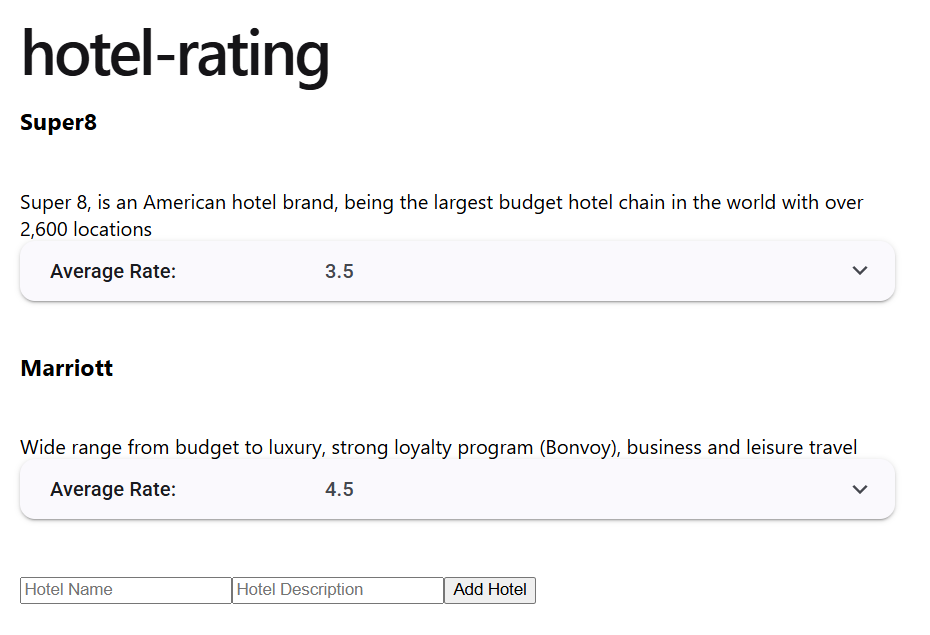
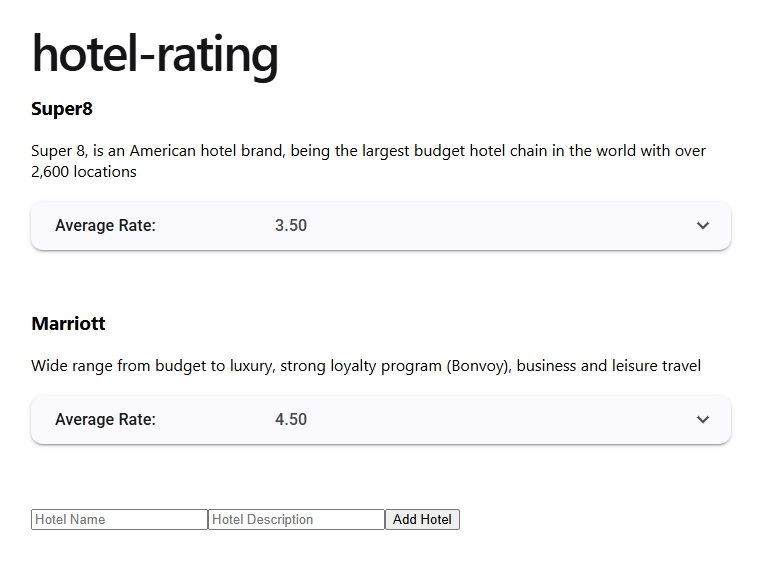
Add sub-component hotel-rate

diff --git a/src/app/hotel-info/hotel-info.ts b/src/app/hotel-info/hotel-info.ts
@@ -1,23 +1,23 @@
-import { Component , Input, OnInit } from '@angular/core';
+import { Component, Input, OnInit, Output, EventEmitter } from '@angular/core';
 import { CommonModule } from '@angular/common';
 import { MatExpansionModule } from '@angular/material/expansion';
 import { FormsModule } from '@angular/forms';
 import { MatRadioModule } from '@angular/material/radio';
-
+import { HotelRate } from '../hotel-rate/hotel-rate';
+import Swal from 'sweetalert2';
 @Component({
   selector: 'app-hotel-info',
-  imports: [CommonModule,MatExpansionModule,FormsModule,MatRadioModule],
+  imports: [CommonModule,MatExpansionModule,FormsModule,MatRadioModule,HotelRate],
   templateUrl: './hotel-info.html',
   styleUrl: './hotel-info.css'
 })
 export class HotelInfo implements OnInit{
   @Input() hotelsJsonString?: string;
+  @Output() hotelChange = new EventEmitter<Event>();
   data?: any[]; // Array to hold the parsed JSON data
   keys?: string[]; // Array to hold the keys (table headers)
   hotelNameValue = '';
   hotelDescriptionValue ='';
-  rateValue='';
-  commentValue='';
 
   ngOnInit(): void {
     if (this.hotelsJsonString) {
@@ -26,33 +26,11 @@ export class HotelInfo implements OnInit{
         if (this.data && this.data.length > 0) {
           this.keys = Object.keys(this.data[0]); // Get keys from the first object for table headers
         }
-
-        var sumRate=0;
-        if (this.data) {
-          this.data.forEach(item => 
-            {
-              this.computeAverageRate(item)
-            }
-          );
-        }
       } catch (e) {
         console.error("Error parsing JSON string:", e);
       }
     }
   }
-
-computeAverageRate(item: any) {
-            var sumRate=0
-            var rates= item['rates'];
-
-            for(var singleRate of rates) {
-              var rateValue = singleRate['rate']
-              sumRate = rateValue+sumRate;
-            }
-            item['averageRate']=sumRate/rates.length
-            console.log("Average Rate="+item['averageRate'])
-  }
-
   handleAddHotel() {
     console.log('Button clicked: Add Hotel');
 
@@ -62,24 +40,22 @@ computeAverageRate(item: any) {
     }
     this.hotelNameValue='';
     this.hotelDescriptionValue='';
+    this.hotelChange.emit(undefined);
   }
 
-  handleAddRate(hotelName: String) {
-    console.log('Button clicked: Add Rate');
-    var newRate ={"rate":parseInt(this.rateValue), "comment": this.commentValue}
-    //this.data[hotelName]['rates'].push(newHotel);
-    if (this.data) {
-      const itemB = this.data.find(item => item.name === hotelName); 
-      if (itemB) {
-        if (itemB['rates']==null) {
-          itemB['rates']=[];
-        }
-        itemB['rates'].push(newRate)
-        this.computeAverageRate(itemB);
-      }
-    }
-    this.rateValue='';
-    this.commentValue='';
-  }
+
+// Add this method to your HotelInfo component class
+commentAdded(event: any) {
+  // Handle the event here, for example:
+  console.log('Received message from child:', event);
+  Swal.fire({
+  position: 'top-end',
+  text: 'Added Comment ',
+  icon: 'info',
+  timer: 2000,
+  timerProgressBar: true,
+  showConfirmButton: false
+});
+}
 
 }

diff --git a/src/app/hotel-rate/hotel-rate.ts b/src/app/hotel-rate/hotel-rate.ts
@@ -1,0 +1,65 @@
+import { Component, Input, OnInit, Output, EventEmitter } from '@angular/core';
+import { CommonModule } from '@angular/common';
+import { MatExpansionModule } from '@angular/material/expansion';
+import { FormsModule } from '@angular/forms';
+import { MatRadioModule } from '@angular/material/radio';
+
+@Component({
+  selector: 'app-hotel-rate',
+  standalone: true,
+  imports: [CommonModule, MatExpansionModule, FormsModule, MatRadioModule],
+  templateUrl: './hotel-rate.html',
+  styleUrl: './hotel-rate.css'
+})
+export class HotelRate implements OnInit {
+  @Input() item?: any;
+  rateValue = '';
+  commentValue = '';
+
+  @Output() messageEvent = new EventEmitter<string>();
+
+  ngOnInit(): void {
+    // Initialize rates array if not present
+    if (this.item && !Array.isArray(this.item['rates'])) {
+      this.item['rates'] = [];
+    }
+    // Compute average rate if rates exist
+    if (this.item && Array.isArray(this.item['rates']) && this.item['rates'].length > 0) {
+      this.computeAverageRate(this.item);
+    }
+  }
+
+  handleAddRate(hotelName: string) {
+    console.log('Button clicked: Add Rate');
+    const rateNum = parseInt(this.rateValue, 10);
+    if (isNaN(rateNum) || rateNum < 1 || rateNum > 5) {
+      this.messageEvent.emit('Please enter a valid rate between 1 and 5.');
+      return;
+    }
+    const newRate = { rate: rateNum, comment: this.commentValue };
+
+    if (this.item) {
+      if (!Array.isArray(this.item['rates'])) {
+        this.item['rates'] = [];
+      }
+      this.item['rates'].push(newRate);
+      this.computeAverageRate(this.item);
+      this.messageEvent.emit('Rate added successfully!');
+    }
+
+    this.rateValue = '';
+    this.commentValue = '';
+    
+  }
+
+  computeAverageRate(item: any) {
+    const rates = item['rates'];
+    if (!Array.isArray(rates) || rates.length === 0) {
+      item['averageRate'] = 0;
+      return;
+    }
+    const sumRate = rates.reduce((sum: number, singleRate: any) => sum + (singleRate['rate'] || 0), 0);
+    item['averageRate'] = sumRate / rates.length;
+    console.log('Average Rate=' + item['averageRate']);
+  }
+}

diff --git a/src/app/hotel-info/hotel-info.html b/src/app/hotel-info/hotel-info.html
@@ -2,41 +2,13 @@
 
 <div>
   <div *ngFor="let item of data">
-    <h3>{{ item['name'] }} </h3><br>
-    {{ item['description'] }}<br>
-    <mat-expansion-panel>
-      <mat-expansion-panel-header>
-        <mat-panel-title>
-          Average Rate:
-        </mat-panel-title>
-        <br>
-        <mat-panel-description>
-           {{item['averageRate'] }}
-        </mat-panel-description>
-      </mat-expansion-panel-header>
-
-      <div *ngFor="let rateitem of item['rates']">
-        <div> Rate: {{rateitem['rate']}}</div>
-        <div> Comment: {{rateitem['comment']}}</div>
-        <br>
-      </div>
-      <div>
-        <mat-radio-group [(ngModel)]="rateValue">
-          Rate:
-          <mat-radio-button value="1">1</mat-radio-button>
-          <mat-radio-button value="2">2</mat-radio-button>
-          <mat-radio-button value="3">3</mat-radio-button>
-          <mat-radio-button value="4">4</mat-radio-button>
-          <mat-radio-button value="5">5</mat-radio-button>
-      </mat-radio-group>
-
-        <!-- <input type="text" [(ngModel)]="rateValue" placeholder="Rate"> -->
-        <input type="text" [(ngModel)]="commentValue" placeholder="Comment">
-        <button (click)="handleAddRate(item['name'])">Add Rate</button>
-      </div>
-
-    </mat-expansion-panel>
-    <br>
+    <h3>{{ item['name'] }} </h3>
+    {{ item['description'] }}<br><br>
+    <app-hotel-rate 
+      [item]="item"
+      (messageEvent)="commentAdded($event)">
+    </app-hotel-rate>
+    <br><br>
   </div>  
 </div>
 <br>

diff --git a/src/app/hotel-rate/hotel-rate.html b/src/app/hotel-rate/hotel-rate.html
@@ -1,0 +1,33 @@
+ <mat-expansion-panel>
+      <mat-expansion-panel-header>
+        <mat-panel-title>
+          Average Rate:
+        </mat-panel-title>
+        <br>
+        <mat-panel-description>
+
+           {{item['averageRate'] | number:'1.2-2' }}
+        </mat-panel-description>
+      </mat-expansion-panel-header>
+
+      <div *ngFor="let rateitem of item['rates']">
+        <div> Rate: {{rateitem['rate']}}</div>
+        <div> Comment: {{rateitem['comment']}}</div>
+      </div>
+      <div>
+        <mat-radio-group [(ngModel)]="rateValue">
+          Rate:
+          <mat-radio-button value="1">1</mat-radio-button>
+          <mat-radio-button value="2">2</mat-radio-button>
+          <mat-radio-button value="3">3</mat-radio-button>
+          <mat-radio-button value="4">4</mat-radio-button>
+          <mat-radio-button value="5">5</mat-radio-button>
+      </mat-radio-group>
+      <br>
+
+        <!-- <input type="text" [(ngModel)]="rateValue" placeholder="Rate"> -->
+        <input type="text" [(ngModel)]="commentValue" placeholder="Comment">
+        <button (click)="handleAddRate(item['name'])">Add Rate</button>
+      </div>
+
+</mat-expansion-panel>

diff --git a/src/app/hotel-rate/hotel-rate.spec.ts b/src/app/hotel-rate/hotel-rate.spec.ts
@@ -1,0 +1,23 @@
+import { ComponentFixture, TestBed } from '@angular/core/testing';
+
+import { HotelRate } from './hotel-rate';
+
+describe('HotelRate', () => {
+  let component: HotelRate;
+  let fixture: ComponentFixture<HotelRate>;
+
+  beforeEach(async () => {
+    await TestBed.configureTestingModule({
+      imports: [HotelRate]
+    })
+    .compileComponents();
+
+    fixture = TestBed.createComponent(HotelRate);
+    component = fixture.componentInstance;
+    fixture.detectChanges();
+  });
+
+  it('should create', () => {
+    expect(component).toBeTruthy();
+  });
+});
